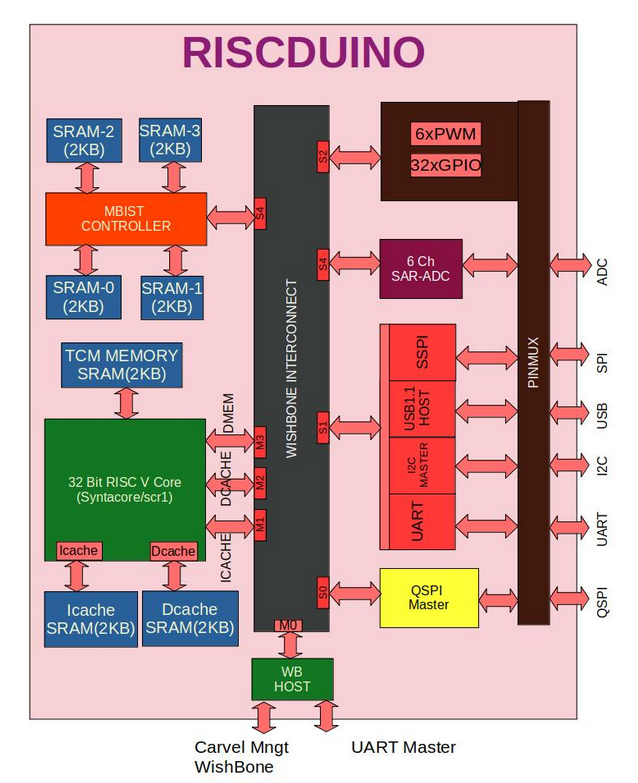
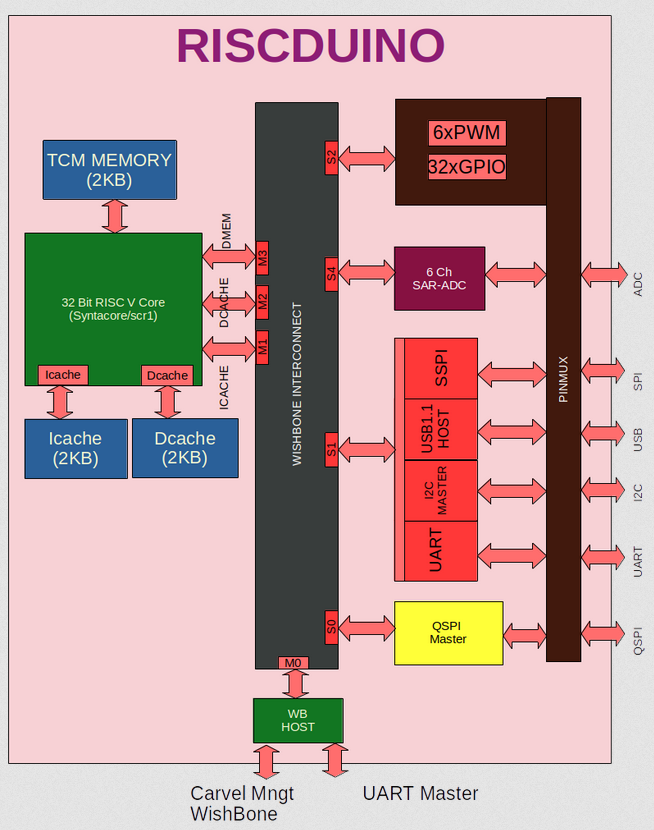
document update

diff --git a/README.md b/README.md
@@ -47,17 +47,16 @@ Riscduino is a 32 bit RISC V based SOC design pin compatible to arudino platform
 # Key features
 ```
     * Open sourced under Apache-2.0 License (see LICENSE file) - unrestricted commercial use allowed.
-    * industry-grade and silicon-proven Open-Source RISC-V core from syntacore 
-    * 2KB SRAM for TCM Memory
-    * 2KB SRAM for Instruction cache
-    * 2KB SRAM for Data cache
+    * 32 Bit RISC-V core
+    * 2KB SRAM for instruction cache 
+    * 2KB SRAM for data cache
+    * 2KB SRAM for Tightly coupled memory - For Data Memory
     * Quad SPI Master
     * UART with 16Byte FIFO
     * USB 1.1 Host
     * I2C Master
     * UART Master
     * Simple SPI Master
-    * MBIST controller for 8KB Program memory
     * 6 Channel ADC (in Progress)
     * 6 PWM
     * Pin Compatbible to arudino uno
@@ -129,9 +128,21 @@ Carvel SOC provides 38 GPIO pins for user functionality. Riscduino SOC GPIO Pin 
 
 ## RISC V Core
 
-Riscduino SOC Integrated Syntacore SCR1 Open-source RISV-V compatible MCU-class core.
-It is industry-grade and silicon-proven IP. Git link: https://github.com/syntacore/scr1
-
+Riscduino SOC Integrated 32 Bits RISC V core. Initial version of Single core RISC-V core is picked from 
+Syntacore SCR1 (https://github.com/syntacore/scr1)
+### RISC V core customization for Riscduino SOC
+Following Design changes are done on the basic version of syntacore RISC core
+```
+   * Some of the sv syntex are changed to standard verilog format to make compatibile with opensource tool iverilog & yosys
+   * Instruction Request are changed from Single word to 4 Word Burst
+   * Multiplication and Divsion are changed to improve timing
+   * Additional pipe line stages added to improve the RISC timing closure near to 50Mhz
+   * 2KB instruction cache 
+   * 2KB data cache
+   * Additional router are added towards instruction cache
+   * Additional router are added towards data cache
+   * Modified AXI/AHB interface to wishbone interface for instruction and data memory interface
+```
 ### Block Diagram
 <table>
   <tr>
@@ -143,19 +154,14 @@ It is industry-grade and silicon-proven IP. Git link: https://github.com/syntaco
 ```
    * RV32I or RV32E ISA base + optional RVM and RVC standard extensions
    * Machine privilege mode only
-   * 2 to 4 stage pipeline
+   * 2 to 5 stage pipeline
+   * 2KB icache
+   * 2KB dcache
    * Optional Integrated Programmable Interrupt Controller with 16 IRQ lines
    * Optional RISC-V Debug subsystem with JTAG interface
-   * 2KB on-chip Tightly-Coupled Memory (TCM Memory)
-   * 2KB on-chip instruction cache
-   * 2KB on-chip data cache
+   * Optional on-chip Tightly-Coupled Memory
 ```
 
-### RISC V core customization Riscduino SOC
-  
-
-* **Update**: Modified some of the system verilog syntax to basic verilog syntax to compile/synthesis in open source tool like simulator (iverilog) and synthesis (yosys).
-* **Modification**: Modified the AXI/AHB interface to wishbone interface towards instruction & data memory interface
 
 
 # SOC Memory Map
